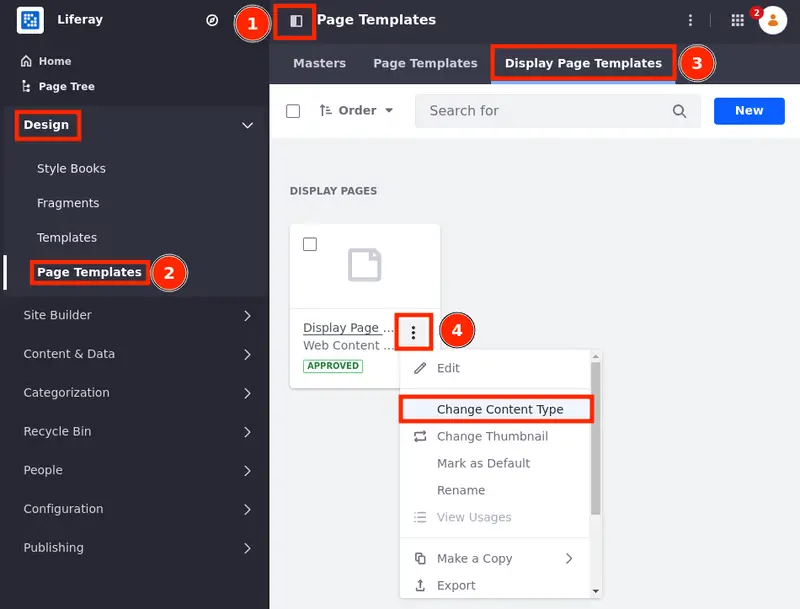
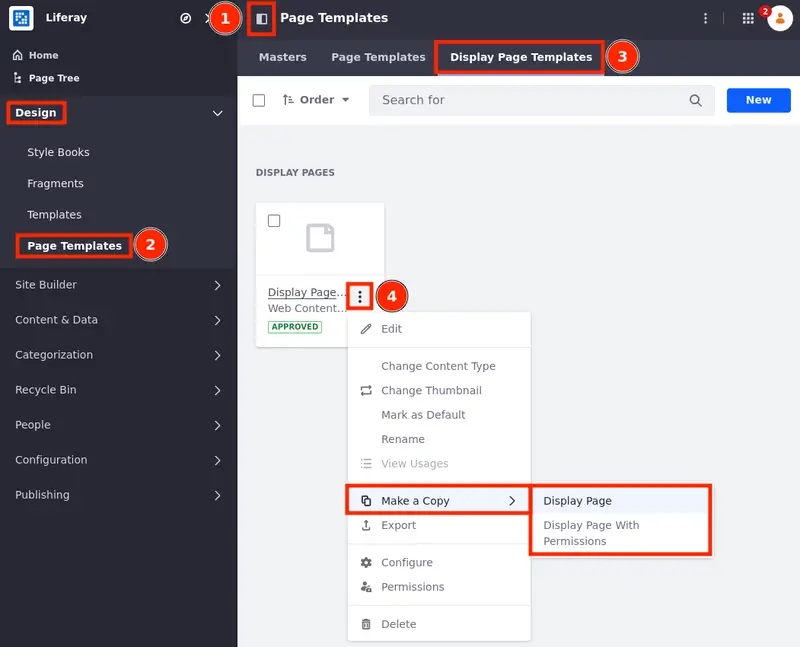
LRDOCS-12339 added section about duplicating dpt and information about new way to access dpt configuration pages

diff --git a/docs/dxp/latest/en/site-building/displaying-content/using-display-page-templates/creating-and-managing-display-page-templates.md b/docs/dxp/latest/en/site-building/displaying-content/using-display-page-templates/creating-and-managing-display-page-templates.md
@@ -64,6 +64,8 @@ To set a friendly URL for your display page template,
 
 1. Select *Configure*.
 
+   You can access the display page template configuration through the Page Templates app. Open the Page Templates app, in the Display Page Templates tab, click *Actions* (![Actions icon](../../../images/icon-actions.png)) for the display page template you want to configure, and choose *Configure*.
+
 1. Under the General section, define your friendly URL.
 
 1. Click *Save*
@@ -123,22 +125,45 @@ Follow these steps to view your display page template usage and unassign your co
 
 If you assign your content to a new display page template, make sure the content appears as expected. To preview and display your content, see [Publishing Content with Display Pages](./publishing-content-with-display-pages.md).
 
-## Changing the Display Page Template's Content Type
+## Duplicating a Display Page Template
+
+{bdg-secondary}`Liferay 7.4 2023.Q4+/GA107+ `
+
+You can duplicate a published display page template. The copy is linked to the original content type, and its mappings are the same as the original page.
+
+To create a copy of your display page template,
+
+1. Open the *Site Menu* (![Site Menu](../../../images/icon-product-menu.png)) (1) and navigate to *Design* &rarr; *Page Templates* (2).
+
+1. Select the *Display Page Templates* tab (3), click *Actions* (![Actions icon](../../../images/icon-actions.png))  for the display page template you want to alter, and choose *Make a Copy* (4).
+
+   If the display page template was never published, the "Make a Copy" option is disabled.
+
+1. In the sub-menu, choose *Display Page* or *Display Page With Permissions*.
+
+   The copy is named "Original Name + Copy + Duplicate Number" and is created as a draft so the user can review it before publishing.
+
+![Use the actions menu to make a copy of your published display page template.](./creating-and-managing-display-page-templates/images/08.png)
+
+!!! important
+    You can only make a copy of display page templates if they were published at some point. Even if the template is modified and not re-published (it becomes a draft), you can copy the last published version of the display page template.
+
+## Changing the Content Type of Display Page Templates
 
 {bdg-secondary}`Liferay 7.4 2023.Q4+/GA107+ `
 
 !!! warning
-   Changing the content type/subtype of a display page template may cause some of its elements to lose their previous mapping.
+    Changing the content type/subtype of a display page template may cause some of its elements to lose their previous mapping.
 
-   The mapped elements in a display page template are highlighted in purple in the Browser menu on the left. The unmapped elements are not highlighted in purple.
+    The mapped elements in a display page template are highlighted in purple in the Browser menu on the left. The unmapped elements are not highlighted in purple.
 
 To change the content type linked to a display page template,
 
 1. Open the *Site Menu* (![Site Menu](../../../images/icon-product-menu.png)) (1) and navigate to *Design* &rarr; *Page Templates* (2).
 
-1. Select the *Display Page Templates* tab (3), click *Actions* (![Actions icon](../../../images/icon-actions.png))  for the display page template you want to alter, and select *Change Content Type* (4).
+1. Select the *Display Page Templates* tab (3), click *Actions* (![Actions icon](../../../images/icon-actions.png))  for the display page template you want to alter, and choose *Change Content Type* (4).
 
-   ![Change the content type linked to the display page template.](./creating-and-managing-display-page-templates/images/08.png)
+   ![Change the content type linked to the display page template.](./creating-and-managing-display-page-templates/images/09.png)
 
 1. In the modal that opens, choose the new content type for your display page template, the new content type and its subtype, or just the new subtype and click *Save*.
 
@@ -154,11 +179,11 @@ Then, you can select the assets, click *Actions* (![Actions icon](../../../image
 
 Assign to Default assigns the asset to the default display page template, while Unassign removes the display page template and assigns the asset to None instead.
 
-![While viewing the display page usage, you can assign an asset to the default display page template or unassign the display page template.](./creating-and-managing-display-page-templates/images/09.png)
+![While viewing the display page usage, you can assign an asset to the default display page template or unassign the display page template.](./creating-and-managing-display-page-templates/images/10.png)
 
 The picture below shows the Display Page settings for a web content article with the Display Page Template assigned to it (1), after using the Assign to Default option (2), and after using the Unassign option (3).
 
-![The display page settings for a web content article in three different moments.](./creating-and-managing-display-page-templates/images/10.png)
+![The display page settings for a web content article in three different moments.](./creating-and-managing-display-page-templates/images/11.png)
 
 ## Related Topics
 
